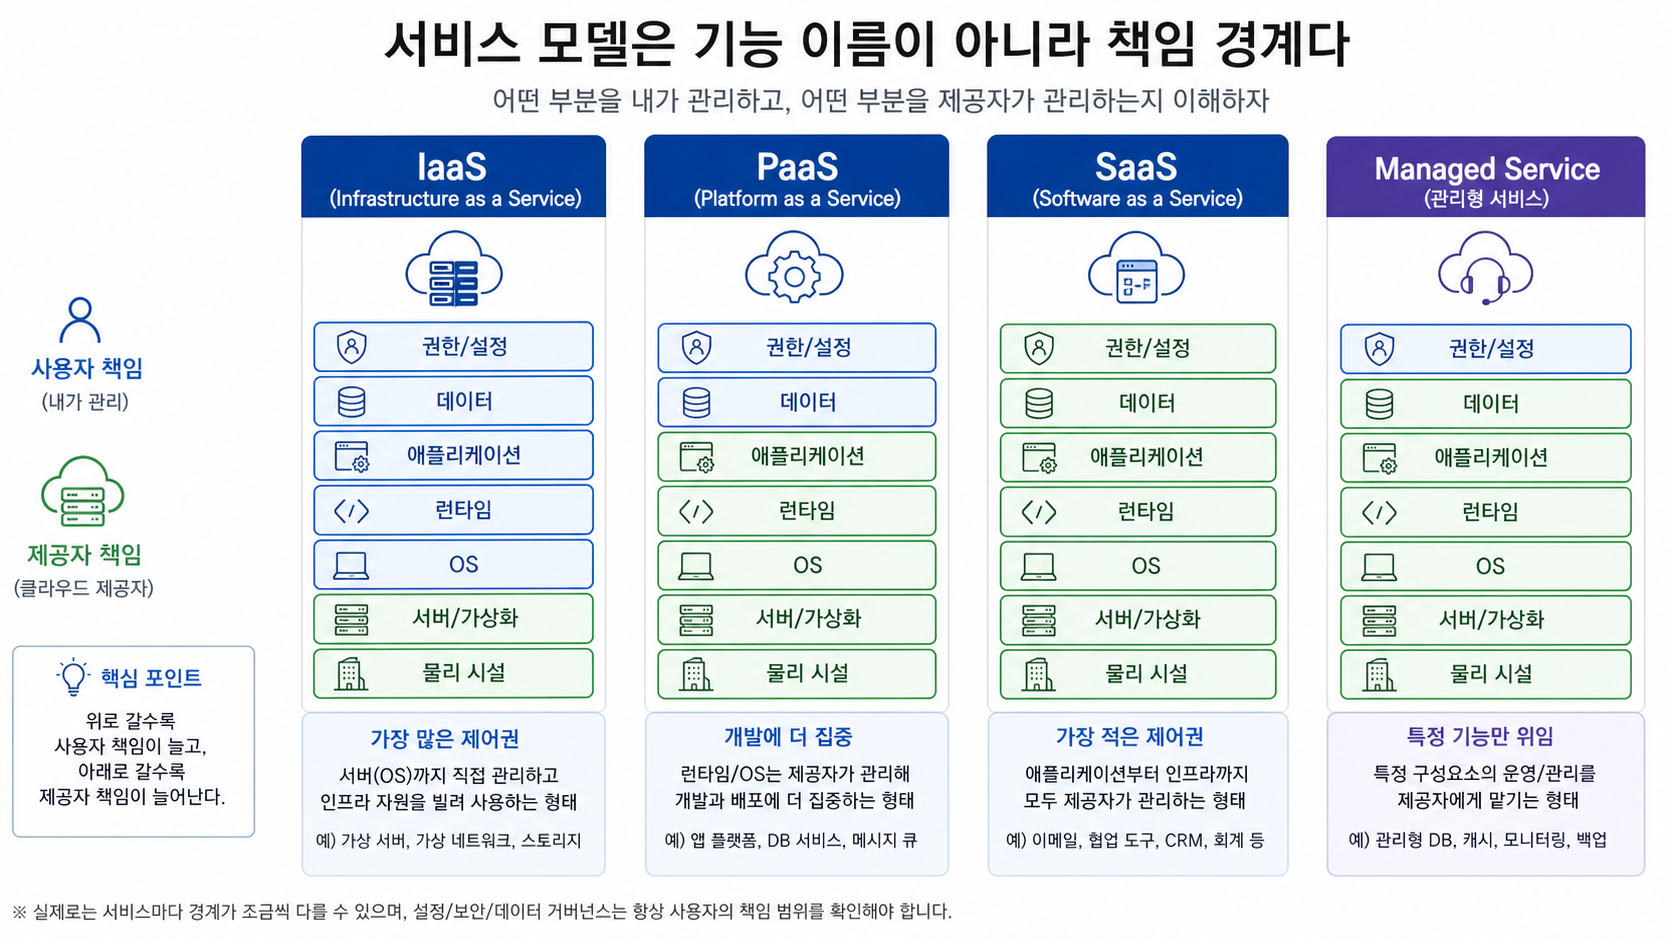
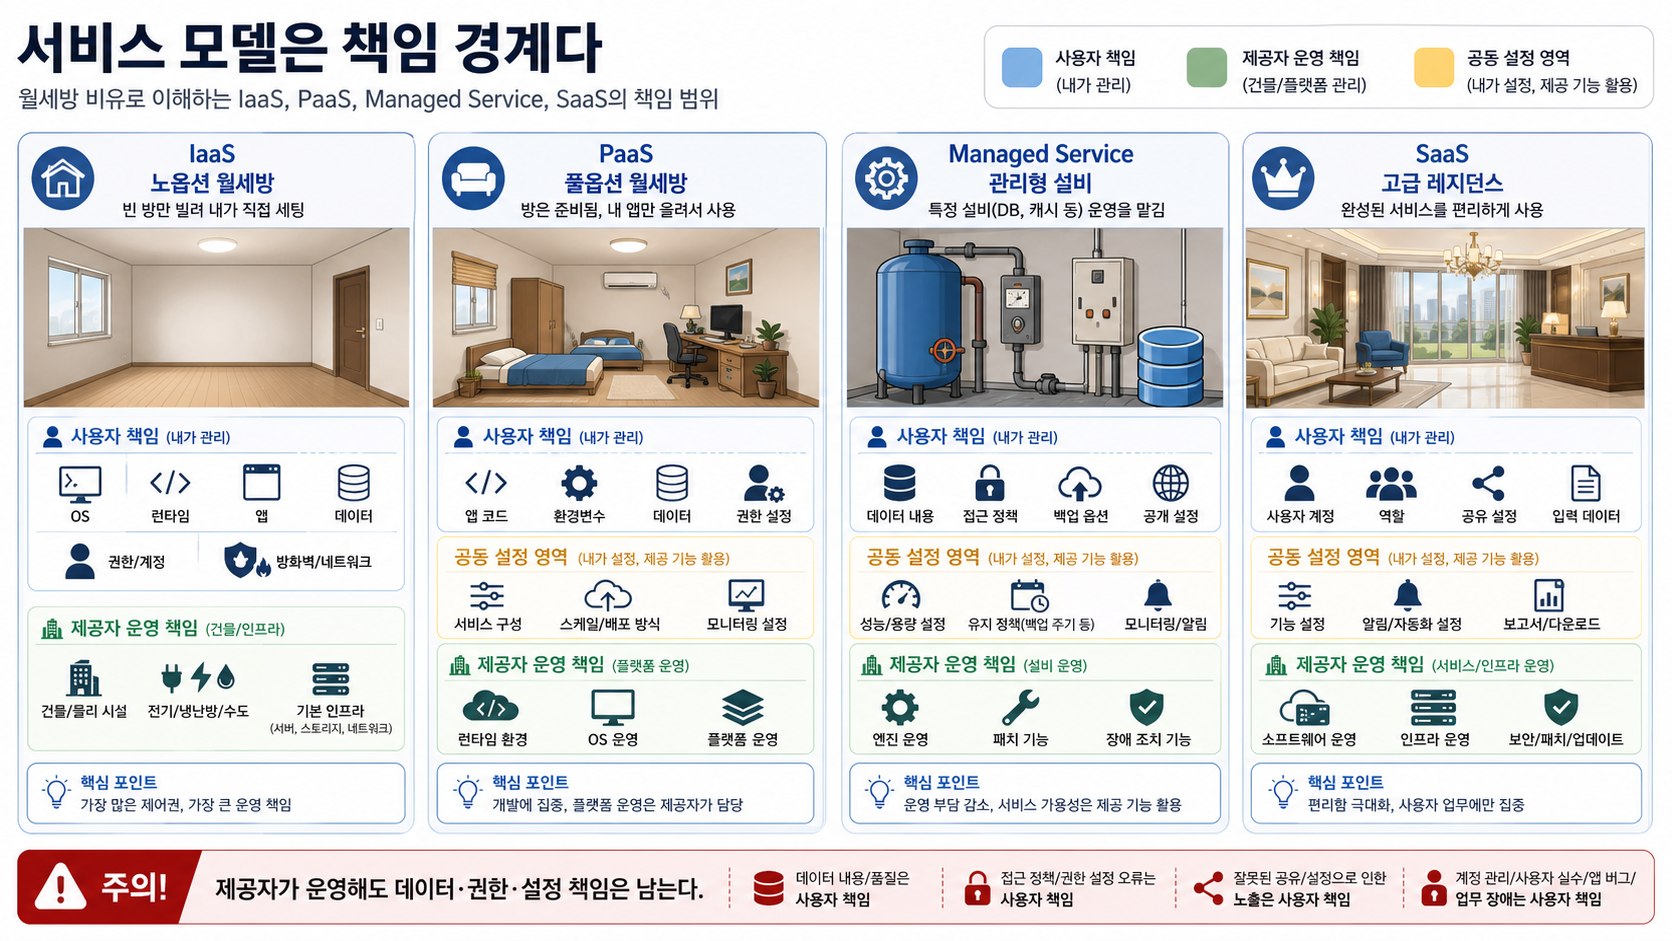
Revise week 1 day 4 service model visuals

diff --git a/week1/day4/lesson-02.md b/week1/day4/lesson-02.md
@@ -8,7 +8,9 @@
 - 서비스 선택 시 제어권, 운영 부담, 배포 속도, 비용 구조, 보안 책임을 함께 비교한다.
 
 ## 시작 상황
-1교시에서는 클라우드를 전 세계 공유 오피스에 비유했다. 이제 그 공유 오피스 안에서 어떤 방식으로 일할지 고르는 단계다. 빈 사무실만 빌려 직접 책상과 장비를 들여놓을 수도 있고, 책상과 네트워크가 준비된 공간에서 앱만 올릴 수도 있고, 이미 완성된 업무 도구를 계정만 만들어 사용할 수도 있다. 이 차이가 IaaS(Infrastructure as a Service), PaaS(Platform as a Service), SaaS(Software as a Service), Managed Service를 나누는 출발점이다.
+1교시에서는 클라우드를 전 세계 공유 오피스에 비유했다. 2교시에서는 더 생활에 가까운 월세방 비유로 서비스 모델을 나눈다. 어떤 방은 아무 옵션이 없어 침대, 책상, 인터넷 공유기, 청소 도구를 직접 준비해야 한다. 어떤 방은 풀옵션이라 기본 가구와 인터넷이 준비되어 있다. 어떤 곳은 고급 레지던스처럼 청소, 프런트, 보안, 공용 시설까지 제공한다. 또 어떤 설비는 정수기, 세탁실, 보관 창고처럼 특정 기능만 관리형으로 빌려 쓸 수 있다.
+
+클라우드 서비스 모델도 이와 비슷하다. IaaS(Infrastructure as a Service)는 노옵션 월세방처럼 자유도가 높지만 직접 챙길 것이 많다. PaaS(Platform as a Service)는 풀옵션 월세방처럼 앱을 올리기 쉬운 환경이 준비되어 있다. SaaS(Software as a Service)는 고급 레지던스처럼 완성된 서비스를 바로 쓰는 방식이다. Managed Service는 방 전체가 아니라 데이터베이스, 캐시, 백업, 메시지 큐 같은 특정 설비의 운영 부담을 맡기는 방식에 가깝다.
 
 초급자가 가장 많이 헷갈리는 지점은 PaaS와 Managed Service, SaaS를 모두 "관리해 주는 서비스"로 뭉뚱그리는 것이다. 하지만 운영 관점에서는 구분해야 한다. IaaS는 서버와 운영체제에 가까운 제어권을 준다. PaaS는 애플리케이션을 올리는 플랫폼에 가깝다. SaaS는 완성된 소프트웨어를 사용하는 방식이다. Managed Service는 데이터베이스, 캐시, 메시지 큐, 컨테이너 실행 환경처럼 특정 운영 부담을 클라우드 제공자에게 맡기는 선택이다.
 
@@ -47,16 +49,16 @@
 
 Managed Service는 PaaS나 SaaS와 같은 축에 완전히 딱 맞게 들어가는 단어가 아니다. "서비스 제공자가 운영 일부를 대신 관리한다"는 성격을 말한다. 예를 들어 RDS는 데이터베이스 설치, 일부 패치, 백업 기능을 관리형으로 제공하지만, 어떤 데이터가 들어가는지, 공개 접근을 막을지, 백업 보관 기간을 어떻게 둘지, 어떤 계정이 접근할지는 사용자가 정한다.
 
-## 쉬운 비유: 사무실을 빌리는 네 가지 방식
-IaaS는 빈 사무실을 빌리는 것과 비슷하다. 건물, 전기, 엘리베이터, 기본 출입구는 제공되지만, 책상 배치, 사무기기, 내부 네트워크, 출입 규칙, 청소 방식은 직접 정해야 한다. 자유도가 높지만 할 일이 많다.
+## 쉬운 비유: 월세방을 빌리는 네 가지 방식
+IaaS는 노옵션 월세방과 비슷하다. 건물, 전기, 수도, 기본 출입구는 제공되지만 침대, 책상, 냉장고, 인터넷 공유기, 청소, 내부 배치는 직접 준비해야 한다. 자유롭게 꾸밀 수 있지만, 고장이나 관리 문제를 직접 챙길 일이 많다. 클라우드에서는 물리 데이터센터와 가상화 기반은 제공자가 운영하지만, OS, 런타임, 앱, 데이터, 포트, 권한 설정은 사용자가 많이 책임진다.
 
-PaaS는 책상, 와이파이, 회의실 예약 시스템, 기본 보안이 준비된 공유 오피스와 비슷하다. 사용자는 업무를 시작하기 쉽지만, 공유 오피스가 정한 규칙 안에서 일해야 한다. 벽을 뜯어 구조를 바꾸거나 전용 전기 설비를 마음대로 추가할 수는 없다.
+PaaS는 풀옵션 월세방과 비슷하다. 침대, 책상, 냉장고, 인터넷, 기본 관리 규칙이 준비되어 있어서 입주자는 빠르게 생활을 시작할 수 있다. 대신 집주인이 정한 옵션과 구조 안에서 사용해야 한다. 클라우드에서는 서버와 런타임 운영 부담이 줄어드는 대신, 앱 코드, 환경변수, secret, 배포 설정, health check 같은 사용자의 설정 책임은 남는다.
 
-SaaS는 이미 완성된 온라인 협업 도구를 쓰는 것과 비슷하다. 계정을 만들고 팀원을 초대하면 바로 사용할 수 있다. 대신 데이터가 어떻게 저장되는지, 내부 서버가 어떤 OS인지, 배포 방식이 무엇인지는 사용자가 직접 제어하지 않는다.
+SaaS는 고급 레지던스와 비슷하다. 가구, 보안, 청소, 프런트, 공용 시설이 갖춰져 있고, 사용자는 계약하고 들어가서 바로 쓸 수 있다. 대신 건물 내부 운영 방식이나 설비 구조를 마음대로 바꿀 수 없다. 클라우드에서는 완성된 소프트웨어를 사용하지만, 사용자 계정, 역할, 공유 링크, 입력 데이터, 결제 플랜 관리는 여전히 사용자의 책임이다.
 
-Managed Service는 사무실 안의 특정 운영을 전문 업체에 맡기는 것과 비슷하다. 문서 보관실, 보안 게이트, 백업 창고, 우편함 관리 같은 기능을 대신 운영해 준다. 하지만 어떤 문서를 넣을지, 누가 열람할 수 있는지, 보관 기간을 얼마나 둘지는 여전히 사용자가 정해야 한다.
+Managed Service는 방 전체가 아니라 특정 설비를 관리형으로 빌리는 것과 비슷하다. 정수기 관리, 세탁실 관리, 보관 창고, 보안 게이트처럼 특정 기능은 업체가 점검하고 운영한다. 하지만 무엇을 보관할지, 누가 접근할지, 얼마 동안 보관할지, 추가 비용이 나는 옵션을 켤지는 사용자가 정해야 한다. RDS 같은 관리형 데이터베이스도 마찬가지다. 엔진 운영 일부는 AWS가 맡지만, 데이터 내용과 공개 설정, 접근 정책, 백업 옵션은 사용자가 판단한다.
 
-비유의 한계는 실제 클라우드 서비스가 이 네 분류 중 하나로만 깔끔하게 떨어지지 않는 경우가 있다는 점이다. 어떤 서비스는 PaaS처럼 보이지만 내부에 Managed Service 성격이 있고, 어떤 SaaS도 사용자 권한 설정과 데이터 관리 책임은 남긴다. 그래서 모델명보다 책임 경계를 먼저 읽어야 한다.
+비유의 한계는 실제 클라우드 서비스가 이 네 분류 중 하나로만 깔끔하게 떨어지지 않는 경우가 있다는 점이다. 어떤 서비스는 PaaS처럼 보이지만 내부에 Managed Service 성격이 있고, 어떤 SaaS도 사용자 권한 설정과 데이터 관리 책임은 남긴다. 그래서 모델명보다 책임 경계를 먼저 읽어야 한다. 집주인이 건물을 관리한다고 해서 내가 문을 활짝 열어 둔 책임까지 대신 지지 않는 것처럼, 클라우드 제공자가 플랫폼을 운영한다고 해서 사용자의 데이터, 권한, 공유 설정, 앱 버그까지 모두 책임지는 것은 아니다.
 
 ## IaaS 자세히 보기
 IaaS는 Infrastructure as a Service다. 가장 대표적인 이미지는 가상 서버를 빌리는 방식이다. AWS에서는 EC2를 떠올리면 이해하기 쉽다. 사용자는 인스턴스 타입, 운영체제 이미지, 디스크, 네트워크, 보안 그룹, 접속 방식 등을 선택한다. 물리 서버와 데이터센터는 AWS가 관리하지만, 운영체제 위에서 벌어지는 많은 일은 사용자가 책임진다.
@@ -125,7 +127,7 @@ Managed Service는 PaaS와 헷갈릴 수 있다. PaaS는 앱을 올리는 플랫
 ## 플랫폼별 권한 제어와 책임 범위
 아래 인포그래픽은 서비스 모델이 바뀔수록 제어권과 운영 부담이 어떻게 이동하는지 보여준다. 왼쪽으로 갈수록 직접 제어할 수 있는 것이 많지만 직접 책임질 것도 많다. 오른쪽으로 갈수록 빠르게 사용할 수 있지만 내부 구조 제어권은 줄어든다.
 
-![플랫폼별 권한 제어와 책임 범위](./assets/lesson-02-platform-permission-control.svg)
+![플랫폼별 권한 제어와 책임 범위](./assets/lesson-02-platform-permission-control.png)
 
 | 모델 | 권한 제어의 중심 | 보안 사고 예시 | 비용 사고 예시 |
 |---|---|---|---|

diff --git a/week1/day4/README.md b/week1/day4/README.md
@@ -93,7 +93,7 @@
 - `lesson-08.md`: 프로젝트 아이디어 면담
 - `assets/week1-day4-overview.png`: 4일차 클라우드 안전 지도 인포그래픽
 - `assets/lesson-02-service-model-overview.png`: IaaS, PaaS, SaaS, Managed Service 책임 경계 오버뷰
-- `assets/lesson-02-platform-permission-control.svg`: 플랫폼별 권한 제어와 책임 범위 다이어그램
+- `assets/lesson-02-platform-permission-control.png`: 플랫폼별 권한 제어와 책임 범위 다이어그램
 
 ## Deliverables
 - 클라우드 기본 구성요소 매핑표